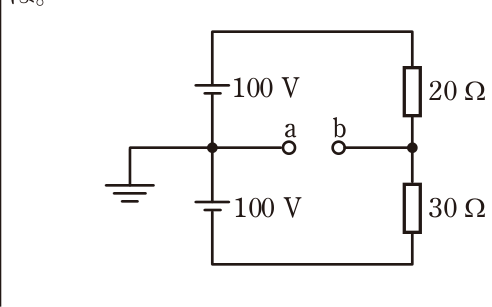
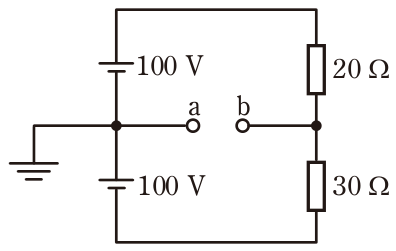
data(denko2): 検証を通った回を取り込み（計 27 回 1350 問）
自動取り込み。50問揃い、公式解答と全問一致し、単独検証を通った回だけを登録している。

Claude-Session: https://claude.ai/code/session_01Psimx3sx2FvU1P2J8AT6MJ

Changed region(s): [[0.0, 0.0, 1.0, 1.0]]

diff --git a/data/review/denko2/denko2-2016-下期.md b/data/review/denko2/denko2-2016-下期.md
@@ -22,7 +22,7 @@
 | 10 | `--y0 0.47` | auto だと「60 A」が切れた |
 | 16 | `--y0 0.115` | 問題文の下端が写り込むので調整 |
 | 17 | `--y0 0.20` | |
-| 18 | `--y0 0.36` | |
+| 18 | `--y0 0.36` | → **検証で 0.185 に修正**（写真の上端が切れていた） |
 
 選択肢が図・写真の問（9・21・22・29・40〜50）は `cells/qNN_choices.png` をそのまま `choicesFigure` に使った。
 
@@ -93,3 +93,73 @@
   図の下端付近を上端と誤判定する。auto の結果が極端に低い高さ（例: 元セルの15 %未満）のときは
   警告を出すと事故が減る。
 - 出典の凡例（`p15.png` 右下）に「⑳」は存在せず、指示記号は①〜⑲＋全体問の20問構成。
+
+## 検証（第2工程）
+
+作成担当のデータを疑う立場で全体を見直した。
+
+### 機械的チェック
+
+- `check_answers.py` … 50問・欠番なし・解答キーとの不一致なし。
+- `validate-data.ts` … errors 0 / warnings 0。
+- 分野内訳 1:5 / 2:5 / 3:8 / 4:5 / 5:4 / 6:20 / 7:3。`subject.json` の目安（5/6/7/6/4/19/3）とは1問ずつずれるが、
+  実試験の出題区分（問1-10=分野1・2、問11-18=分野3、問19-23=分野4、問24-27=分野5、問28-30=分野7、問31-50=分野6）
+  どおりなので**分類は変更しなかった**。
+
+### 照合した範囲
+
+- **全50問**の `stem` / `choices` を `cells/qNN_row.png`（問45〜50はページ画像 p13）と1問ずつ照合。
+  Ω・φ・mm²・数値・「不適切」「誤っている」などの否定条件・ただし書き・単位に**転記誤りは見つからなかった**。
+  JSON全体を走査しても Ω→W 等の取り違えはなし（"W" の出現はすべてワットか 1φ3W 等の表記）。
+- 配線図（p15）は元PDFを400 dpiで再レンダリングし、2階平面図・1階階段まわり・工場・倉庫・L-1・P-1・凡例を拡大確認。
+- 図・写真を参照する全問（q01/02/04/05/06/08/10/16/17/18 と choicesFigure 15枚、sharedFigure p15）を Read で目視。
+
+### 見つけて直した問題（7件）
+
+1. **問19 whyCorrect（法令の誤り）** … 金属可とう電線管のD種接地省略条件に「（乾燥した場所に施設するとき）」と
+   金属管（解釈第159条）側の要件が混ざっていた。解釈第160条の省略条件は**管の長さ4 m以下のみ**。文を修正。
+2. **問19 supplement（法令の誤り）** … 「300 Vを超える場合は原則C種で、**省略できるのは**接触防護措置を施したときの4 m以下」は誤り。
+   300 V超は接触防護措置により **C種→D種に緩和**できるだけで省略はできない。あわせて金属管と金属可とう電線管の
+   省略条件を同一視していた点も、条ごとに書き分けて全面的に書き直した。
+3. **問41 supplement（数値基準の誤り）** … 大スリーブの例に「5.5 mm²×2〜3本」とあったが、5.5 mm²×2本は断面積11 mm²で**中**。
+   選定表では2.6 mmと5.5 mm²が同じ欄で扱われ「2本→中、3本→大」。中・大の例示を訂正し、その一文を追記。
+4. **問7 calcTemplate の誤答生成** … `distractors` が `answer*0.5` / `answer*1.5` で、元パラメータでも選択肢が
+   **11 / 22 / 33 / 35** となり原問（17 / 22 / 30 / 35）を再現できず、11 Aという実試験にない値が出ていた。
+   `27*k`（1.6 mmと取り違え）/ `48*k`（2.6 mmと取り違え）に変更。これで
+   n=4 → 17/22/30/35（原問と完全一致）、5〜6本 → 15/20/27/35、7〜8本 → 13/17/24/35 となり、
+   supplement の許容電流表（1.6→27 / 2.0→35 / 2.6→48）ともつながる誤答筋になった。
+5. **問8 whyOthersWrong[0]（説明の不整合）** … 選択肢イ「2.6」に対し「小数点の位置を誤った値です。I²r＝15 W」とあり、
+   2.6 の由来（√3×I²r≒26 の桁誤り）と噛み合っていなかった。「√3を掛けた26 W（ハ）の桁を誤った値」に書き直した。
+6. **問18 の図が切れていた** … `--y0 0.36` で写真の上端2割が欠け、黒いストリッパの柄が切れていた。
+   `--y0 0.185` で切り直し、`public/.../q18_fig.png` を削除してから `publish_figures.py` を再実行して差し替え。
+7. **問41 whyCorrect の紛らわしい表記** … 「三相200 V回路ⓐ」が問37の「二重丸ⓐ（単相200 V回路）」と同じ字面だったので、
+   「動力分電盤P-1の□で囲んだⓐ」と明記した。あわせて問30の `note` を、現行制度での読み方が分かる書き方に直した（要確認は維持）。
+
+### 疑ったが誤りではなかった主な点
+
+- **⑲の図記号**（Sを丸で囲み、さらに黒く塗った四角で囲む）＝**電流計付箱開閉器**。400 dpiで
+  工場内の細線の□Sと明確に描き分けられていることを確認し、外部情報でも「Sが○で囲まれ、さらに正方形で囲まれている記号」で裏が取れた。
+- **問31・42・43の連動**（作成担当が再確認を求めていた箇所）。公式解答との整合だけでなく**図面自体から確定**できた。
+  1階階段まわりを拡大すると、**立上り記号（○＋上向き矢印）は階段灯ハの位置にあり**、2階側の同じ位置に引下げ（○＋下向き矢印）がある。
+  電源は2階L-2のⓒ回路なので、接地側電線は⑫→⑬→①と降りるほかない。よって
+  ①＝渡り線2＋接地側1＝**3本**、⑬＝黒1＋イ帰り1＋ロ帰り1＋白1＝**4心＝2心×2本**、
+  ⑫＝白4本（4本用1個）＋黒2・イ帰り2・ロ帰り2（2本用3個）で、いずれも公式解答と一致。
+  ⑫に集まるケーブルが4本（L-2・⑬・イ群・ロ群）であること、L-2からの線とロ群の縦線が交差するだけで接続していないことも拡大して確認した。
+- **傍記のロ・ニ** … 400 dpiで見ると「イロハ」「ロ」「ニ」のカタカナと読める（ロが小さな□に見えるだけ）。
+- **⑦＝二重丸ⓐ（単相200 V）** … L-1結線図を拡大し、TSの上の記号が二重丸であることを確認。問37の解説は正しい。
+- **⑧の500 Ω** … P-1の分岐はすべてBE（3P30A/50A）で、2.2 kW電動機は□bの分岐。0.5秒以内遮断装置ありでD種500 Ωが適用できる。
+- **問46の4枚の写真** … 300 dpiで各選択肢の結線をたどり、whyOthersWrong の記述（イ＝負荷側からW側にも渡り線、
+  ロ＝白を点滅器に・赤をW端子に、ニ＝白を点滅器に＋極性入替）がいずれも写真どおりであることを確認。
+- **問47イの埋設標識シート**の文言「この下に低圧電力ケーブルあり」も写真どおり。
+- **条番号** … 電技解釈 12/14/17/29/36/116/120/145/146/147/149/159/160/161/162/164/171/186、電技省令58、
+  電気事業法38、同施行規則48、電気工事士法3、同施行令1、電気用品安全法2/10/28 はいずれも実在し内容と対応していた。
+
+### 残っている懸念
+
+- **問30**（一般用電気工作物の要件）… 2023年3月施行の改正後、選択肢ニの太陽電池（15 kW）自体は小規模事業用電気工作物になる。
+  出力50 kW未満の太陽電池は今も「小規模発電設備」なので低圧受電の需要設備部分は一般用のまま、という読み方が自然だが、
+  一次情報（条文本文）までは当たれなかったため `note` の「要確認」は残した。`active` のまま。
+- **内線規程の節番号**（1300節・3102節・1340-1・3605-3 など）は一次情報で確認できていない。
+  ただしcorpus全体で同じ書式が使われているため、この回だけ書き換えると不統一になるので触っていない。
+- **calcの選択肢は昇順固定**なので問7の正答位置は常にロ（既存corpus共通の仕様。作成担当のレビューノートの提案どおり、
+  エンジン側でのシャッフル対応が望ましい）。

diff --git a/data/review/denko2/denko2-2017-上期.md b/data/review/denko2/denko2-2017-上期.md
@@ -110,3 +110,77 @@
   罫線検出に失敗したら row をそのまま stem として出す等のフォールバックがあると，`crop_figure.py --from stem` が使える。
 - `crop_figure.py --auto` は「本文中の長い横線」を図の上端と誤検出しやすい。
   日本語本文の行（高さ方向に等間隔で黒画素が並ぶ領域）を先に除外すると精度が上がりそう。
+
+## 検証（第2工程）
+
+### 確認した範囲
+
+- **`cells/qNN_row.png` と照合した問（38問）**: 1, 2, 3, 4, 5, 6, 7, 8, 9, 10, 11, 12, 13, 14, 15,
+  19, 20, 21, 22, 23, 24, 25, 26, 27, 28, 29, 30, 31, 33, 35, 37, 38, 40, 42, 43, 46, 47, 50。
+  `stem`・`choices`・「ただし」書き・否定条件（不適切／誤っている／使用されていない）・単位（Ω, mm², φ, MΩ）を
+  1文字ずつ突き合わせた。**転記の誤りは1件も見つからなかった**（Ω→W の化けもなし）。
+- **図・写真（全25点）**: `q01/02/04/05/06/08/10/27_fig`，`q09/q31_choices`，`q16/17/18_fig`，`q43_fig`，
+  `q41〜q50_ch`，`p15` をすべて Read で開いた。切れ・本文の写り込み・解答の写り込みはなく，どれも単体で問題が解ける。
+  **切り直しは不要と判断した**（`q44_ch`・`q48_ch`・`q49_ch` の下端に次の行の帯が数 px 入るが，判読の妨げにならない）。
+- **calc 2問**: `allValidCalcs` で全組合せを展開して確認。問3は12通り（答え2〜6の整数），
+  問7は5通り（24／24／22／19／19 A）。生成される選択肢はいずれも実試験らしい値域に収まっている。
+- **公式解答との突合**: 外部の解説（denki-no-shinzui.com の平成29年度上期 問31〜40／問41〜50）と
+  50問すべての正解を再突合し，`answers.json` と一致することを確認した。
+
+### 作成担当が挙げた「自信が持てなかった箇所」の裏取り結果
+
+| # | 論点 | 結果 |
+|---|---|---|
+| 1 | 問7の丸め規則 | **正しい**。内線規程では許容電流に電流減少係数を掛けたあと「**小数点以下1位を7捨8入**」する。35×0.7=24.5→24，27×0.7=18.9→19 の両方が説明できる。解説・`formula` とも修正不要 |
+| 2 | 問31の盤の図記号 | **一部を修正**（下記） |
+| 3 | 問45の `⊠`＝プルボックス | **正しい**。外部解説も「プルボックス」 |
+| 4 | 問35の傍記 `BL` | **正しい**。B＝ボタン，L＝ランプで「確認表示灯付電磁開閉器用押しボタン」。図記号は**二重丸の内側が黒**（p15を拡大して確認）なので，解説の「円の中を黒く塗った」を正確な表現に直した |
+| 5 | 問41の刃受の向き | **写真と整合**。ハ・イは刃受が縦に2つ並び接地極が横（250 V用），ロ・ニは刃受が横に並ぶ（125 V用）。イとニだけ金色の接地端子あり。解説の記述どおり |
+| 6 | 問26の零点調整 | **正しい**。零点調整は端子間を**短絡**して行う（複数の解説サイトで一致） |
+| 7 | 問22の条番号 | **正しい**。電技解釈 **第110条＝低圧屋側電線路の施設**で，がいし引き（展開した場所）・合成樹脂管・金属管・バスダクト・ケーブルの5工事に限られる |
+
+### 見つけた誤りと修正（4件）
+
+1. **問50 `whyCorrect`・`whyOthersWrong[2]`・`supplement`（内容の誤り）**
+   写真ニの接点構成図を拡大すると，ランプ（○）は**端子1と端子3の間に直列**に入っており，
+   端子0からの接点は1にしか渡らない。つまりニは「3路スイッチに表示灯を組み込んだもの」ではなく
+   **確認表示灯内蔵スイッチ（パイロットスイッチ，傍記L）**である（外部解説も「確認表示灯内蔵スイッチ」）。
+   `whyCorrect` を書き換え，「図面にある点滅器の傍記は3とHだけでLがない」という筋道に直した。
+   ハ（ランプがスイッチと並列＝位置表示灯内蔵，傍記H）との対比も明示した。
+2. **問31 `supplement`（内容の誤り）**
+   「WhとBだけなら分電盤」と書かれていたが，この図面でWhをもつのは**引込口の配電盤P-L**であり，
+   分電盤L-1はBE1個＋多数のB＋TSである。盤の中身と種類の対応を実際の結線図に合わせて書き直した。
+3. **問31 `whyOthersWrong[1]・[3]`（説明が弱い）**
+   ロ（左右の三角が黒）とニ（上下の三角が黒）は**同じ制御盤の図記号を90°回したもの**で，
+   この図面でも P-1 が横向き，P-2 が縦向きで描かれている（p15を拡大して確認）。
+   ニの「同じく三角を塗り分けた記号ですが」という曖昧な説明を，この事実に置き換えた。
+   なお JIS C 0303 の条文本体には塗り分けの図が含まれず，Web上にも「制御盤＝上下」「制御盤＝左右」の
+   両説が見られたため，**図面自身が示す事実（P-1・P-2 の2つの向き）だけを根拠にする**書き方に統一した。
+4. **問43 `whyOthersWrong[1]`・`supplement`（裏の取れない断定）**
+   写真ロを「太い電線用」と断定したうえで `supplement` に「青や黒＝絶縁被覆付端子用」と書いていたが，
+   柄の色分けで確実なのは**黄＝リングスリーブ用／赤＝裸圧着端子用**の2つだけ。
+   青系の工具の用途は特定できないので，`supplement` から未確認の色分けを削り，
+   `whyOthersWrong[1]` は「倍力機構をもつ大形の工具で柄も赤ではない」という観察できる事実に寄せた。
+
+そのほか，問31 `whyCorrect` の「受電盤P-L」を，同じ解説内の他の記述（配電盤）と揃えて「配電盤P-L」に直した。
+
+### 修正しなかったが確認したこと
+
+- **分野の分布**（1:5 2:5 3:8 4:5 5:4 6:20 7:3）は目安（1:5 2:6 3:7 4:6 5:4 6:19 7:3）と±1ずれるが，
+  この回の実際の並び（問1-5＝理論，問6-10＝配電理論・配線設計，問11-18＝機器材料工具，問19-23＝施工方法，
+  問24-27＝検査，問28-30＝法令，問31-50＝配線図）と完全に一致しており，**分類は正しい**。変更していない。
+- `whyOthersWrong` の要素と選択肢の対応，正答位置が `""` であること，参照条番号の実在（第12/14/17/29/110/116/
+  146/148/149/156/158/159/164/165/175/176/177/220条，電気工事士法3・4・5条，同施行規則2条，同施行令1条，
+  電気用品安全法2条・別表，電技省令58条）をスクリプトと個別確認で洗った。**いずれも問題なし**。
+- 問42・問47・問48の複線図の数え方を独立に組み直し，外部解説（問42＝2本○/4本小/5本中，問47＝2本3・3本1・4本1，
+  問48＝小2・中1）と一致することを確認した。
+
+### 残っている懸念
+
+- **問43の写真ロが具体的に何の工具か**は特定できていない（解説では断定を避けた）。
+- **問31のロ／ニ**を JIS の呼称で「制御盤」と言い切ってよいかは，JIS C 0303 の図表原典を見ないと最終確認できない。
+  解説は図面上の事実（P-1・P-2 に使われている）を根拠にしているので誤りにはならないが，
+  原典が確認できれば「実験盤」等との呼び分けを追記できる。
+- 問41の「250 V用は刃受が縦，125 V用は横」は写真4枚では成立しているが，JIS C 8303 の極配置図そのものは未確認。
+
+再検証: `check_answers.py` → 50問・欠番なし・不一致なし／`validate-data.ts` → errors 0, warnings 0。
